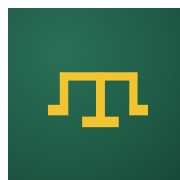
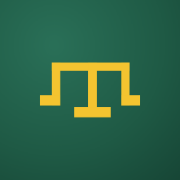
Simge kenardaki beyaz şerit giderildi ve ortalandı
Claude-Session: https://claude.ai/code/session_01UCS6MCoxyDF1ynfXoNEAXN

Changed region(s): [[0.2222, 0.3333, 0.8333, 0.7222], [0.0, 0.0, 1.0, 1.0]]

diff --git a/index.html b/index.html
@@ -14,9 +14,9 @@
 <meta property="og:image:width" content="1200">
 <meta property="og:image:height" content="630">
 <meta name="twitter:card" content="summary_large_image">
-<link rel="icon" type="image/png" sizes="32x32" href="/favicon-32.png">
-<link rel="icon" type="image/png" sizes="192x192" href="/icon-192.png">
-<link rel="apple-touch-icon" sizes="180x180" href="/apple-touch-icon.png">
+<link rel="icon" type="image/png" sizes="32x32" href="/favicon-32.png?v=2">
+<link rel="icon" type="image/png" sizes="192x192" href="/icon-192.png?v=2">
+<link rel="apple-touch-icon" sizes="180x180" href="/apple-touch-icon.png?v=2">
 <link rel="manifest" href="/site.webmanifest">
 <meta name="theme-color" content="#1f5a45">
 <meta name="apple-mobile-web-app-title" content="Giray Akademi">
